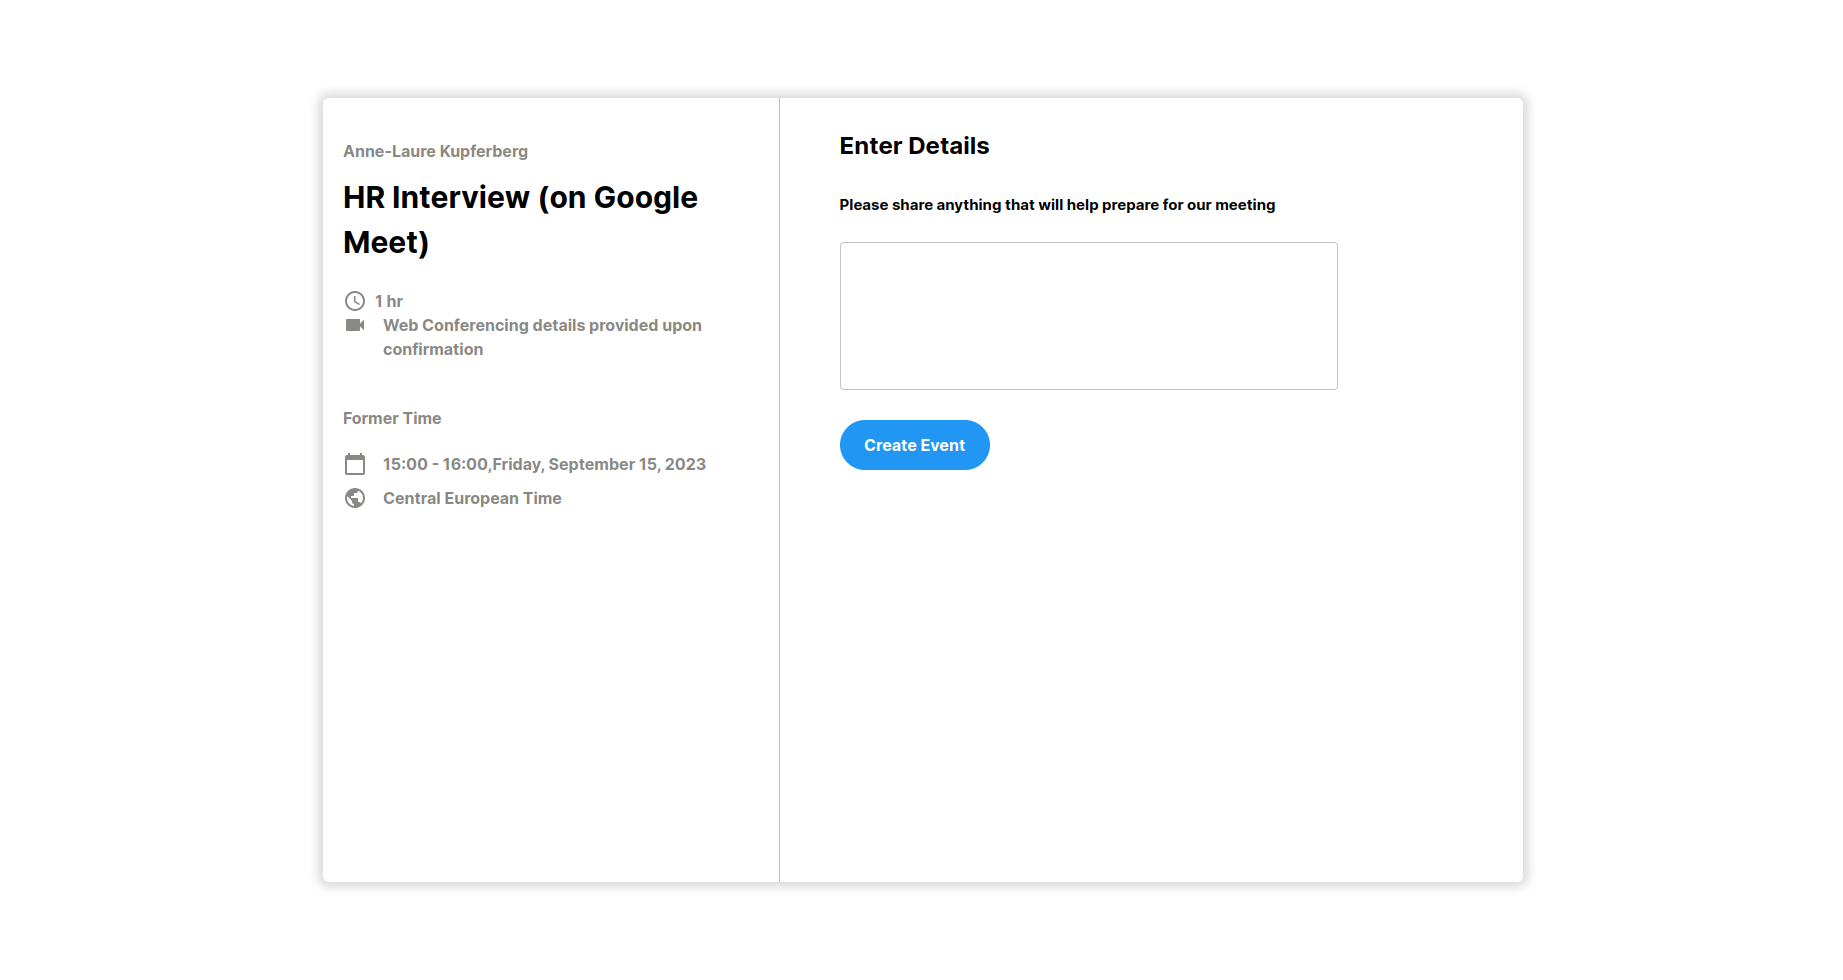
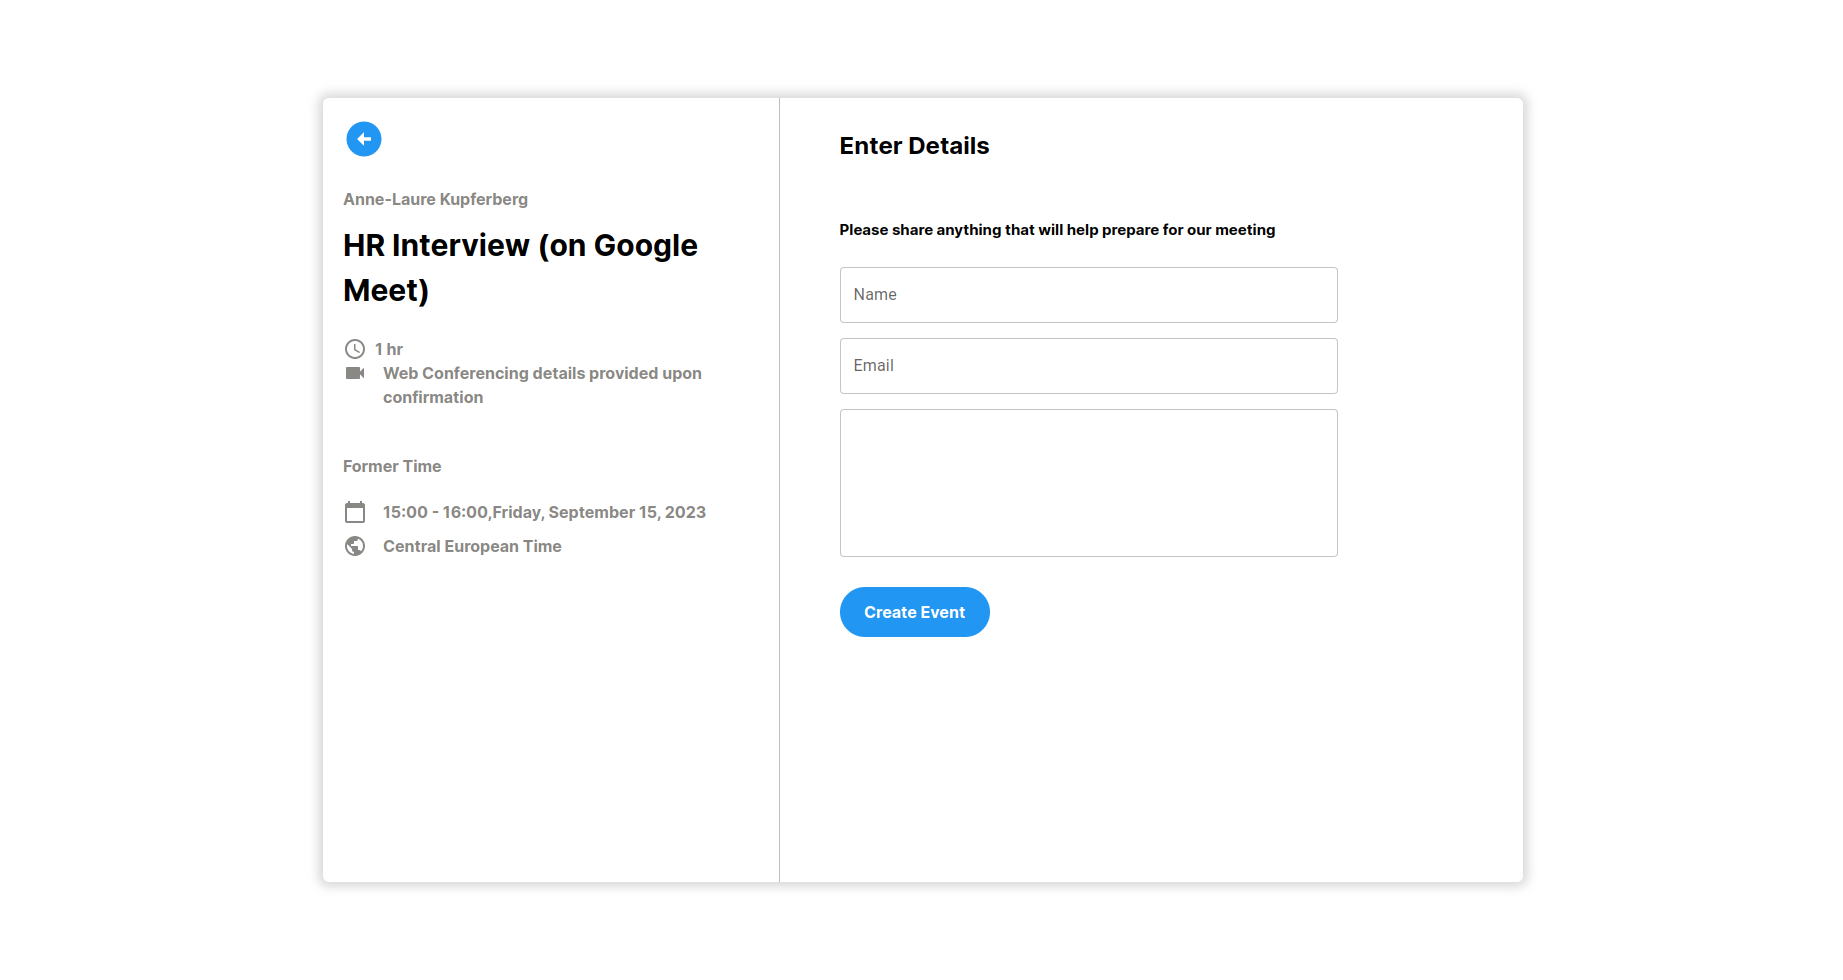
add the last screen for client

diff --git a/src/pages/Summit.jsx b/src/pages/Summit.jsx
@@ -1,0 +1,37 @@
+import React from 'react'
+import { Container  , Title , Detail , Infos , Flex , TitleM} from './Summit.styles'
+import CheckCircleOutlineIcon from '@mui/icons-material/CheckCircleOutline';
+import { Info } from '@mui/icons-material';
+import PersonIcon from '@mui/icons-material/Person';
+import CalendarTodayIcon from '@mui/icons-material/CalendarToday';
+import PublicIcon from '@mui/icons-material/Public';
+import VideocamIcon from '@mui/icons-material/Videocam';
+import Button from '@mui/material/Button';
+import GoogleIcon from '@mui/icons-material/Google';
+import MicrosoftIcon from '@mui/icons-material/Microsoft';
+import Stack from '@mui/material/Stack';
+
+export default function Summit() {
+  return (
+    <Container>
+        <Title><CheckCircleOutlineIcon style={{ color: '#439c40', fontSize: 38  }} />You are scheduled</Title>
+        <Detail>A calendar invitation has been sent to your email adress.</Detail>
+        <Infos>
+            <h2>HR Interview (on Google Meet)</h2>
+            <Flex><PersonIcon style={{ color : '#868a86' , marginRight : '6px' }}/>Anne-Laure Kupferberg</Flex>
+            <Flex><CalendarTodayIcon style={{ color : '#868a86' , marginRight : '6px' }}/>14:15 - 15:15, Thursday, September 21, 2023</Flex>
+            <Flex><PublicIcon style={{ color : '#868a86' , marginRight : '6px' }}/>Central European Time</Flex>
+            <Flex><VideocamIcon style={{ color : '#868a86' , marginRight : '6px' }}/>Web conferencing details to follow</Flex>
+        </Infos>
+        <TitleM>Schedule your own meetings with Calendly for free</TitleM>
+        <Stack direction="row" spacing={2}>
+            <Button variant="outlined" startIcon={<GoogleIcon />}>
+                Sign up with Google
+            </Button>
+            <Button variant="contained" endIcon={<MicrosoftIcon />}>
+                Sign up with Microsoft
+            </Button>
+        </Stack>
+    </Container>
+  )
+}

diff --git a/src/pages/Summit.styles.js b/src/pages/Summit.styles.js
@@ -1,0 +1,49 @@
+import styled from 'styled-components';
+
+export const Container = styled.div`
+    box-shadow: 0px 0px 10px 5px rgba(128, 128, 128, 0.3);
+    width : 900px;
+    height : 60vh;
+    max-height : 1000px;
+    display : flex;
+    border-radius : 6px;
+    display : flex;
+    justify-content : start;
+    align-items : center;
+    flex-direction : column;
+`
+
+export const Title = styled.h2`
+    color : black;
+    display : flex;
+    align-items : center;
+`
+
+export const TitleM = styled.h4`
+    color : black;
+    display : flex;
+    align-items : center;
+    margin-bottom : 12px;
+`
+
+export const Detail = styled.p`
+    color : #868a86;
+    margin-top: -10px;
+`
+
+export const Infos = styled.div`
+    width : 50%;
+    height : 36%;
+    border : 1px solid #868a86;
+    border-radius : 5px;
+    padding :10px 20px;
+    margin-bottom : 50px;
+`
+
+export const Flex = styled.div`
+    display : flex;
+    color : #868a86;
+    font-weight : bold;
+    margin-bottom : 8px;
+`
+

diff --git a/src/pages/CalendarDetails.jsx b/src/pages/CalendarDetails.jsx
@@ -28,7 +28,10 @@ export default function CalendarDetails() {
             <RightSectionDetails>
                 <MainTitleH3>Enter Details</MainTitleH3>
                 <Text>Please share anything that will help prepare for our meeting</Text>
+                <TextField id="outlined-basic" label="Name" variant="outlined" style={{ marginBottom: '15px'}} sx={{ width: '80%' }} />
+                <TextField id="outlined-basic" label="Email" variant="outlined" style={{ marginBottom: '15px'}} sx={{ width: '80%' }} />
                 <TextField
+
                     id="outlined-multiline-static"
                     // label="Multiline"
                     multiline

diff --git a/src/App.jsx b/src/App.jsx
@@ -2,6 +2,7 @@ import { useState } from 'react'
 import './App.css'
 import Calendar from './pages/Calendar'
 import CalendarDetails from './pages/CalendarDetails'
+import Summit from './pages/Summit'
 
 function App() {
   //const [count, setCount] = useState(0)
@@ -9,7 +10,8 @@ function App() {
   return (
     <>
      {/* <Calendar /> */}
-     <CalendarDetails />
+     {/* <CalendarDetails /> */}
+     <Summit />
     </>
   )
 }

diff --git a/src/pages/Calendar.styles.js b/src/pages/Calendar.styles.js
@@ -26,6 +26,8 @@ export const RightSectionDetails = styled.div`
     width : 60%;
     padding : 20px 60px;
     margin-top : 20px;
+    display : flex;
+    flex-direction : column;
 `
 
 export const LeftSection = styled.div`

diff --git a/README.md b/README.md
@@ -6,3 +6,4 @@
 
 ![alt1](./Screens/scr1.png)
 ![alt1](./Screens/scr2.png)
+![alt1](./Screens/scr3.png)
